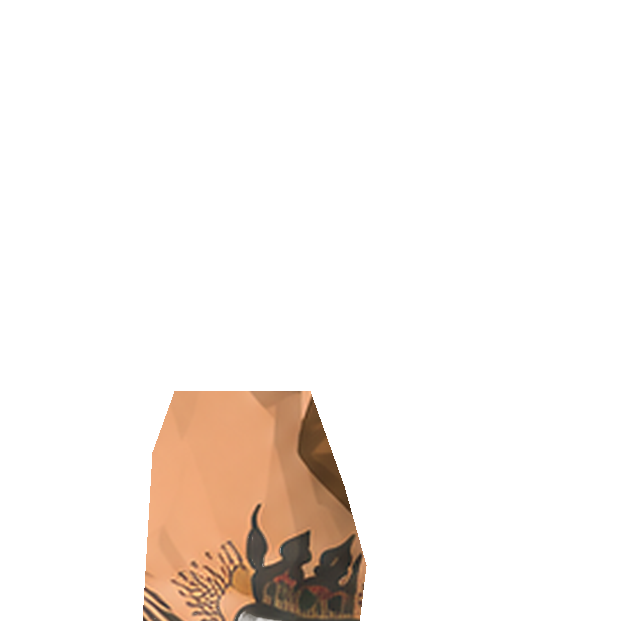
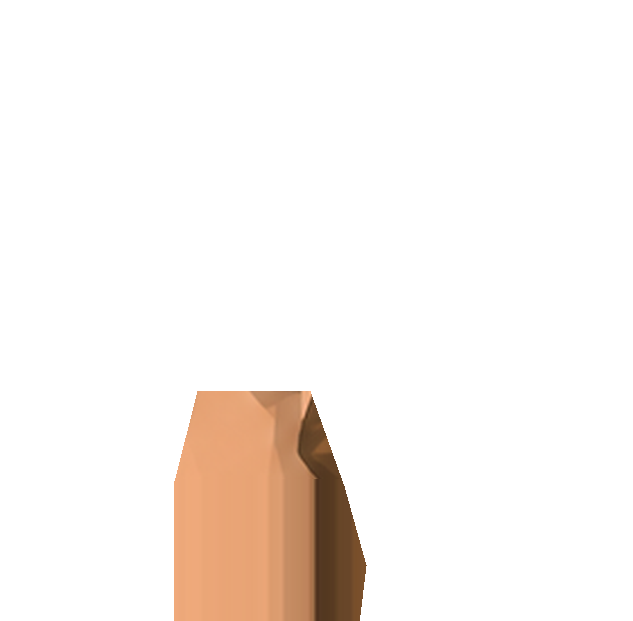
From v131: neck texture cut to its top 45 percent, heads lowered to meet the shoulders
Claude-Session: https://claude.ai/code/session_01BMyqTur5CGsYQhULeeiyXv

Changed region(s): [[0.2101, 0.6119, 0.6003, 1.0]]

diff --git a/cage/src/Cutout.js b/cage/src/Cutout.js
@@ -15,10 +15,10 @@ const REFS={ref:[['ref1','#e9b28b'],['ref2','#7a5236'],['ref3','#d9a07a'],['ref4
 CO.pickRef=(lk,kind,idx)=>{const L=REFS[kind];if(!L)return;const c=L[idx!=null?idx%L.length:Math.floor(Math.random()*L.length)];lk.cutout=c[0];lk.skin=c[1];lk.headK=.126;lk.headDown=.014};
 for(const k in REFS)REFS[k].forEach(c=>{try{load(c[0])}catch(e){}});
 CO.variants=n=>{const c=CURATED[n];return c&&c.variants||null};CO.getVar=n=>{try{const v=+localStorage.getItem('cl_skin_'+n)||0;const c=CURATED[n];return c&&c.variants&&v<c.variants.length?v:0}catch(e){return 0}};CO.setVar=(n,v)=>{try{localStorage.setItem('cl_skin_'+n,String(v))}catch(e){}};
-const CURATED={'Jon Jones':{cutout:'jones',skin:'#6b4a34',shorts:'#232326',glove:'#17171a',headK:.132,headDown:.0146},'Anderson Silva':{cutout:'silva',skin:'#8d5c34',shorts:'#1b1b1e',glove:'#17171a',headK:.132,headDown:.014},
-  'Alex Pereira':{cutout:'pereira',skin:'#c68d5a',shorts:'#1b1b1e',glove:'#17171a',headK:.132,headDown:.0146,tat:'',variants:[['pereira','머리 있는 버전'],['pereira2','삭발 버전']]},
-  'Fedor Emelianenko':{cutout:'fedor',skin:'#e1a174',shorts:'#1b1b1e',glove:'#17171a',headK:.132,headDown:.0146,tat:''},'Mirko Cro Cop':{cutout:'cropcop',skin:'#e8a77a',shorts:'#1b1b1e',glove:'#17171a',headK:.132,headDown:.0146,tat:''},'Israel Adesanya':{cutout:'adesanya',skin:'#80502c',shorts:'#1b1b1e',glove:'#17171a',headK:.132,headDown:.014,tat:''},
-  'Conor McGregor':{cutout:'conor1',skin:'#e9a97c',shorts:'#1b1b1e',glove:'#17171a',headK:.132,headDown:.014,tat:'',variants:[['conor1','짧은 머리'],['conor2','꽁지머리']]},'Cain Velasquez':{cutout:'cain',skin:'#dc9a6b',shorts:'#1b1b1e',glove:'#17171a',headK:.132,headDown:.014,tat:''},'Jose Aldo':{cutout:'aldo',skin:'#c98c57',shorts:'#1b1b1e',glove:'#17171a',headK:.132,headDown:.014,tat:''},'Junior dos Santos':{cutout:'jds',skin:'#d9966a',shorts:'#1b1b1e',glove:'#17171a',headK:.132,headDown:.014,tat:''}};
+const CURATED={'Jon Jones':{cutout:'jones',skin:'#6b4a34',shorts:'#232326',glove:'#17171a',headK:.15,headDown:.05},'Anderson Silva':{cutout:'silva',skin:'#8d5c34',shorts:'#1b1b1e',glove:'#17171a',headK:.15,headDown:.05},
+  'Alex Pereira':{cutout:'pereira',skin:'#c68d5a',shorts:'#1b1b1e',glove:'#17171a',headK:.15,headDown:.05,tat:'',variants:[['pereira','머리 있는 버전'],['pereira2','삭발 버전']]},
+  'Fedor Emelianenko':{cutout:'fedor',skin:'#e1a174',shorts:'#1b1b1e',glove:'#17171a',headK:.15,headDown:.05,tat:''},'Mirko Cro Cop':{cutout:'cropcop',skin:'#e8a77a',shorts:'#1b1b1e',glove:'#17171a',headK:.15,headDown:.05,tat:''},'Israel Adesanya':{cutout:'adesanya',skin:'#80502c',shorts:'#1b1b1e',glove:'#17171a',headK:.15,headDown:.05,tat:''},
+  'Conor McGregor':{cutout:'conor1',skin:'#e9a97c',shorts:'#1b1b1e',glove:'#17171a',headK:.15,headDown:.05,tat:'',variants:[['conor1','짧은 머리'],['conor2','꽁지머리']]},'Cain Velasquez':{cutout:'cain',skin:'#dc9a6b',shorts:'#1b1b1e',glove:'#17171a',headK:.15,headDown:.05,tat:''},'Jose Aldo':{cutout:'aldo',skin:'#c98c57',shorts:'#1b1b1e',glove:'#17171a',headK:.15,headDown:.05,tat:''},'Junior dos Santos':{cutout:'jds',skin:'#d9966a',shorts:'#1b1b1e',glove:'#17171a',headK:.15,headDown:.05,tat:''}};
 if(typeof lookFor==='function'){const lf=lookFor;window.lookFor=function(f){const L=lf.apply(this,arguments);const C=CURATED[f&&f.n];if(C){Object.assign(L,C);if(C.variants){const v=CO.getVar(f.n);L.cutout=C.variants[v][0];if(v===1&&f.n==='Conor McGregor')L.headK=.138;if(v===1&&f.n==='Alex Pereira'){L.skin='#c88c58';L.headK=.132}}}return L}}
 function load(name){let S=CO.sets[name];if(S)return S;S=CO.sets[name]={ready:false};
   fetch('assets/cutout/'+name+'/parts.json').then(r=>r.json()).then(m=>{S.meta=m;const im=new Image();im.onload=()=>{S.img=im;S.ready=true};im.src='assets/cutout/'+name+'/'+m.image}).catch(()=>{S.failed=true});
@@ -27,18 +27,18 @@ function load(name){let S=CO.sets[name];if(S)return S;S=CO.sets[name]={ready:fal
     Promise.all(ps).then(()=>{/* published only when head AND neck are decoded, so the face never appears piece by piece */const h2={img:im,headH:m.headH,m,meta:{parts:{head2:{x:0,y:0,w:m.w,h:m.h,p0:m.p0,p1:m.p1}}}};if(n)h2.neck=n;S.h2=h2;try{if(window.FACEFX){FACEFX.skinMask(im);FACEFX.layer(im.width,im.height)}}catch(e){}/* warm the caches */S.pending=0;CO.warm=(CO.warm||0)+1})}).catch(()=>{S.pending=0});return S}
 CO.body=false;
 /* the neck as a bending strip: horizontal slices from the skull down to the shoulders, each turned by an angle between the head's and the trunk's, so the back of the neck folds when the head tips forward or back */
-function neck(ctx,S2,hd,nk,B,d,ku,H,skin){const m=S2.m,P=S2.meta.parts.head2,p0=P.p0,qb=m.neckPivot,y0=m.neckTop,y1=m.neckBot,W=m.w;const J=B.J,mm=d;
+function neck(ctx,S2,hd,nk,B,d,ku,H,skin){const m=S2.m,P=S2.meta.parts.head2,p0=P.p0,y0=m.neckTop,y1=Math.round(m.neckTop+(m.neckBot-m.neckTop)*.45),W=m.w;/* only the top 45 % of the neck picture is used */const rr=m.neckRows&&m.neckRows[y1-2],qb=rr?[(rr[0]+rr[1])/2,y1]:[m.neckPivot[0],y1];const J=B.J,mm=d;
   const nrm=(x,y)=>{const l=Math.hypot(x,y)||1;return[x/l,y/l]};const uH=nrm(hd.x-nk.x,hd.y-nk.y),uT=nrm(nk.x-J.sh.x,nk.y-J.sh.y);const aH=Math.atan2(uH[1],uH[0])-Math.PI/2,aT=Math.atan2(uT[1],uT[0])-Math.PI/2;let da=aT-aH;while(da>Math.PI)da-=2*Math.PI;while(da<-Math.PI)da+=2*Math.PI;
   const wh=(qx,qy)=>{const x=mm*(qx-p0[0])*ku,y=-(qy-p0[1])*ku,c=Math.cos(aH),s=Math.sin(aH);return{x:hd.x+c*x-s*y,y:hd.y+s*x+c*y}};
   const Wb=wh(qb[0],qb[1]);Wb.x+=d*.022*H;Wb.y-=.004*H;/* the base of the neck sits further toward the chest */const wt=(qx,qy)=>{const x=mm*(qx-qb[0])*ku,y=-(qy-qb[1])*ku,c=Math.cos(aT),s=Math.sin(aT);return{x:Wb.x+c*x-s*y,y:Wb.y+s*x+c*y}};
   const N=24,step=(y1-y0)/N,rows=m.neckRows;
   /* opaque backing: a solid skin column under the slices so no seam ever shows the background through the neck */
   const L=[],R=[];for(let i=0;i<=N;i++){const y=Math.min(y1-1,y0+i*step),t=i/N,sm=t*t*(3-2*t),r=rows&&rows[Math.round(y)];if(!r)continue;const cx=qb[0];
-    for(const[side,x]of[[L,r[0]-1],[R,r[1]-1]]){const A=wh(x,y),Bt=wt(x,y);side.push({x:A.x+(Bt.x-A.x)*sm,y:A.y+(Bt.y-A.y)*sm})}}
+    for(const[side,x]of[[L,r[0]+4],[R,r[1]-4]]){const A=wh(x,y),Bt=wt(x,y);side.push({x:A.x+(Bt.x-A.x)*sm,y:A.y+(Bt.y-A.y)*sm})}}
   if(L.length>2){ctx.fillStyle=skin?shade(skin,-.02):'#6b4a34';ctx.beginPath();L.forEach((q,i)=>i?ctx.lineTo(q.x,q.y):ctx.moveTo(q.x,q.y));R.slice().reverse().forEach(q=>ctx.lineTo(q.x,q.y));ctx.closePath();ctx.fill()}
   for(let i=0;i<N;i++){const ya=y0+i*step,yb=ya+step,yc=(ya+yb)/2,t=(i+.5)/N,sm=t*t*(3-2*t),xc=qb[0];const A=wh(xc,yc),Bt=wt(xc,yc);const px=A.x+(Bt.x-A.x)*sm,py=A.y+(Bt.y-A.y)*sm,al=aH+da*sm;
     const ex=1.5;ctx.save();ctx.translate(px,py);ctx.rotate(al);ctx.scale(mm*ku,-ku);ctx.drawImage(S2.neck,0,ya-ex,W,step+2*ex,-xc,(ya-ex)-yc,W,step+2*ex);ctx.restore()}}
-CO.head=function(ctx,hd,nk,H,B,d){const lk=B.look;if(!CO.on||!lk||!lk.cutout)return false;const S=load(lk.cutout);if(S.h2){/* anchored on the head centre, hanging down along the neck line */ctx.imageSmoothingEnabled=true;ctx.imageSmoothingQuality='high';const ku=H*(lk.headK||.145)/S.h2.headH;const Lh=Math.hypot(hd.x-nk.x,hd.y-nk.y)||1,dn=H*(lk.headDown!=null?lk.headDown:.007);const hd2={x:hd.x-(hd.x-nk.x)/Lh*dn,y:hd.y-(hd.y-nk.y)/Lh*dn};/* head a little lower */if(S.h2.neck)neck(ctx,S.h2,hd2,nk,B,d,ku,H,lk.skin);if(S.h2.m.nofx){/* referee / coach: a skin neck joins the rigid head to the shoulders */const a={x:hd2.x+(nk.x-hd2.x)*.35,y:hd2.y+(nk.y-hd2.y)*.35},b={x:nk.x+(nk.x-hd2.x)*.12,y:nk.y+(nk.y-hd2.y)*.12};ctx.save();ctx.strokeStyle=lk.skin;ctx.lineWidth=.062*H;ctx.lineCap='butt';ctx.beginPath();ctx.moveTo(a.x,a.y);ctx.lineTo(b.x,b.y);ctx.stroke();ctx.restore()}put(ctx,S.h2,'head2',hd2,nk,d,ku,1,1,true,c=>{if(!window.FACEFX)return;{const q=S.h2.m.fx;if(S.h2.m.nofx||(q&&q.blinkOnly)){if(q&&q.blinkOnly)FACEFX.lid(c,q.G,FACEFX.blink(B),q.lid);return}}const fx=S.h2.m.fx,G=fx?fx.G:{eye:[395,222],brow:[400,190],brow2:[352,205],nose:[470,268],cheek:[372,292],fore:[360,110],lip:[432,358],u:44,down:1},mo=fx?fx.mouth:[452,352,40,18];FACEFX.mouth(c,[mo[0],mo[1]],mo[2],mo[3],1,B);FACEFX.lid(c,G,FACEFX.blink(B),fx?fx.lid:'#745239');/* bruises and blood: drawn on a layer cut to the face's skin, in the sprite's own (head-turning) space */if(FACEFX.hasWounds(B)){const mk=FACEFX.skinMask(S.h2.img);if(mk){const ly=FACEFX.layer(S.h2.img.width,S.h2.img.height),g=ly.getContext('2d');g.setTransform(1,0,0,1,0,0);g.globalCompositeOperation='source-over';g.clearRect(0,0,ly.width,ly.height);FACEFX.wounds(g,B,G,{cuts:true});g.globalCompositeOperation='destination-in';g.drawImage(mk,0,0);g.globalCompositeOperation='source-over';c.drawImage(ly,0,0)}}});return true}if(!S.ready)return false;const ku=H*1.03/(S.meta.h*.935)*1.08;ctx.imageSmoothingEnabled=true;ctx.imageSmoothingQuality='high';/* the neck: a solid column from the shoulders up under the jaw (the picture's head part carries only a stub of it) */
+CO.head=function(ctx,hd,nk,H,B,d){const lk=B.look;if(!CO.on||!lk||!lk.cutout)return false;const S=load(lk.cutout);if(S.h2){/* anchored on the head centre, hanging down along the neck line */ctx.imageSmoothingEnabled=true;ctx.imageSmoothingQuality='high';const ku=H*(lk.headK||.145)/S.h2.headH;const Lh=Math.hypot(hd.x-nk.x,hd.y-nk.y)||1,dn=H*(lk.headDown!=null?lk.headDown:.05);const hd2={x:hd.x-(hd.x-nk.x)/Lh*dn,y:hd.y-(hd.y-nk.y)/Lh*dn};/* head a little lower */if(S.h2.neck)neck(ctx,S.h2,hd2,nk,B,d,ku,H,lk.skin);if(S.h2.m.nofx){/* referee / coach: a skin neck joins the rigid head to the shoulders */const a={x:hd2.x+(nk.x-hd2.x)*.35,y:hd2.y+(nk.y-hd2.y)*.35},b={x:nk.x+(nk.x-hd2.x)*.12,y:nk.y+(nk.y-hd2.y)*.12};ctx.save();ctx.strokeStyle=lk.skin;ctx.lineWidth=.062*H;ctx.lineCap='butt';ctx.beginPath();ctx.moveTo(a.x,a.y);ctx.lineTo(b.x,b.y);ctx.stroke();ctx.restore()}put(ctx,S.h2,'head2',hd2,nk,d,ku,1,1,true,c=>{if(!window.FACEFX)return;{const q=S.h2.m.fx;if(S.h2.m.nofx||(q&&q.blinkOnly)){if(q&&q.blinkOnly)FACEFX.lid(c,q.G,FACEFX.blink(B),q.lid);return}}const fx=S.h2.m.fx,G=fx?fx.G:{eye:[395,222],brow:[400,190],brow2:[352,205],nose:[470,268],cheek:[372,292],fore:[360,110],lip:[432,358],u:44,down:1},mo=fx?fx.mouth:[452,352,40,18];FACEFX.mouth(c,[mo[0],mo[1]],mo[2],mo[3],1,B);FACEFX.lid(c,G,FACEFX.blink(B),fx?fx.lid:'#745239');/* bruises and blood: drawn on a layer cut to the face's skin, in the sprite's own (head-turning) space */if(FACEFX.hasWounds(B)){const mk=FACEFX.skinMask(S.h2.img);if(mk){const ly=FACEFX.layer(S.h2.img.width,S.h2.img.height),g=ly.getContext('2d');g.setTransform(1,0,0,1,0,0);g.globalCompositeOperation='source-over';g.clearRect(0,0,ly.width,ly.height);FACEFX.wounds(g,B,G,{cuts:true});g.globalCompositeOperation='destination-in';g.drawImage(mk,0,0);g.globalCompositeOperation='source-over';c.drawImage(ly,0,0)}}});return true}if(!S.ready)return false;const ku=H*1.03/(S.meta.h*.935)*1.08;ctx.imageSmoothingEnabled=true;ctx.imageSmoothingQuality='high';/* the neck: a solid column from the shoulders up under the jaw (the picture's head part carries only a stub of it) */
   {const L=Math.hypot(hd.x-nk.x,hd.y-nk.y)||1e-5,ux=(hd.x-nk.x)/L,uy=(hd.y-nk.y)/L;let nx=-uy,ny=ux;if(nx*d<0){nx=-nx;ny=-ny}const skin=lk.skin||'#7d5033';
    const Q=(aa,bb)=>({x:nk.x+ux*aa+nx*bb,y:nk.y+uy*aa+ny*bb});
    const poly=[Q(-.05*H,.05*H),Q(.04*H,.042*H),Q(L*.9,.036*H),Q(L*1.0,-.04*H),Q(.03*H,-.075*H),Q(-.05*H,-.1*H)];

diff --git a/cage/src/FlatStyle.js b/cage/src/FlatStyle.js
@@ -46,13 +46,11 @@ function frame(a,b,d){const dx=b.x-a.x,dy=b.y-a.y,L=Math.hypot(dx,dy)||1e-5;cons
 function joint(ctx,c,r,col){ctx.fillStyle=col;ctx.beginPath();ctx.arc(c.x,c.y,r,0,7);ctx.fill();const g=ctx.createRadialGradient(c.x-r*.25,c.y+r*.25,r*.1,c.x,c.y,r);g.addColorStop(0,'rgba(255,240,220,.05)');g.addColorStop(.6,'rgba(0,0,0,0)');g.addColorStop(1,'rgba(40,18,8,.10)');ctx.fillStyle=g;ctx.beginPath();ctx.arc(c.x,c.y,r,0,7);ctx.fill()}
 /* a very thin darker rim around a body part */
 function thinLine(ctx,pts,col){ctx.save();ctx.globalAlpha=.5;ctx.strokeStyle=shade(col,-.4);ctx.lineWidth=.0034;ctx.lineJoin='round';ctx.beginPath();rpath(ctx,pts,ROUND*2.2);ctx.stroke();ctx.restore()}
-/* shading for a round joint cap: lit on the front side, dark on the back side, so it continues the limb's own shading */
-function capShade(ctx,c,r,n,base){ctx.save();ctx.beginPath();ctx.arc(c.x,c.y,r,0,7);ctx.clip();const g=ctx.createLinearGradient(c.x+n.x*r,c.y+n.y*r,c.x-n.x*r,c.y-n.y*r);const hi=rgbOf(shade(base,.14)),lo=rgbOf(shade(base,-.3));g.addColorStop(0,`rgba(${hi[0]},${hi[1]},${hi[2]},.3)`);g.addColorStop(.45,'rgba(0,0,0,0)');g.addColorStop(.6,`rgba(${lo[0]},${lo[1]},${lo[2]},.0)`);g.addColorStop(1,`rgba(${lo[0]},${lo[1]},${lo[2]},.42)`);ctx.fillStyle=g;ctx.fillRect(c.x-r,c.y-r,r*2,r*2);ctx.restore()}
 function limb(ctx,a,b,d,rows,col,shCol,extra){const F=frame(a,b,d);const P=(t,w)=>({x:a.x+F.ux*F.L*t+F.nx*w,y:a.y+F.uy*F.L*t+F.ny*w});
   const front=rows.map(r=>P(r[0],r[1])),back=rows.map(r=>P(r[0],-r[2]));poly(ctx,front.concat(back.slice().reverse()),col,ROUND*2.2);/* outline of the limb: extra round */
   if((FS.outline||(extra&&extra.armLine))&&!(extra&&extra.noLine))thinLine(ctx,front.concat(back.slice().reverse()),col);
   /* rounded joint ends: the limb meets its neighbour with a smooth round cap instead of a hard corner */
-  if(!(extra&&extra.noCaps)){const r0=rows[0],r1=rows[rows.length-1];circ(ctx,P(r0[0],(r0[1]-r0[2])/2),(r0[1]+r0[2])/2,col);circ(ctx,P(r1[0],(r1[1]-r1[2])/2),(r1[1]+r1[2])/2,col);}
+  if(!(extra&&extra.noCaps)){const r0=rows[0],r1=rows[rows.length-1];circ(ctx,P(r0[0],(r0[1]-r0[2])/2),(r0[1]+r0[2])/2,col);circ(ctx,P(r1[0],(r1[1]-r1[2])/2),(r1[1]+r1[2])/2,col)}
   if(shCol){const mid=rows.map(r=>P(r[0],-r[2]*(extra&&extra.shadowFrom!=null?extra.shadowFrom:.12)));poly(ctx,mid.concat(back.slice().reverse()),shCol)}
   return{F,P,out:front.concat(back.slice().reverse()),front,back}}
 
@@ -95,18 +93,16 @@ Body.prototype.draw=function(ctx,o){o=o||{};const lk=this.look;if(window.CUTOUT&
   const ow=this._owner,hpo=ow&&ow.hp,sevL=hpo?clamp((100-hpo.legs)/100*1.25-.1,0,1):0,sevA=ow?clamp((ow._armD||0)/32,0,1):0,LS=H0=>{const D=LD;if(!D)return 1;const sd=H0==='lH'?'l':'r',tot=D.l+D.r;return tot<1?1:clamp(.5+.9*D[sd]/tot,.45,1.25)},flA=ow&&ow._armFlash>0?ow._armFlash/.32:0,LD=ow&&ow._legD;
   const self=this;
   /* ---- arm: deltoid, biceps/triceps, elbow, forearm, wrist, glove ---- */
-  const arm=(S,isFar)=>{const e=J[S.E],w=J[S.W],a=lerp(J[S.S],J.mid,R?.12:.22);/* the drawn shoulder sits well below the neck, so it never covers the face */const C=isFar?{b:sk.far,s:sk.farSh}:{b:sk.base,s:sk.sh};
-    joint(ctx,e,.031*M,C.b);capShade(ctx,e,.031*M,(()=>{const F=frame(e,w,d);return{x:F.nx,y:F.ny}})(),C.b);/* the elbow sits behind both segments; its own shading continues the arm's */
+  const arm=(S,isFar)=>{const e=J[S.E],w=J[S.W],a=lerp(J[S.S],J.mid,R?.2:.32);/* the drawn shoulder sits well below the neck, so it never covers the face */const C=isFar?{b:sk.far,s:sk.farSh}:{b:sk.base,s:sk.sh};
+    joint(ctx,e,.031*M,C.b);/* the elbow sits behind both segments so the shading runs through it */
     /* upper arm: deltoid cap → biceps (front) / triceps (back) → elbow */
     const Pa=limb(ctx,a,e,d,R?[[.5,.05*M,.05*M],[.78,.04*M,.04*M],[1,.031*M,.033*M]]:[[-.04,.05*M*SHB,.055*M*SHB],[.12,.062*M*SHB,.064*M*SHB],[.3,.052*M,.058*M],[.5,.05*M,.05*M],[.78,.04*M,.04*M],[1,.031*M,.033*M]],C.b,C.s,{noCaps:isFar||R,armLine:!isFar});/* a sleeve covers the shoulder of the referee / coach: no skin up there *//* the far shoulder gets no round cap: it would poke out above the back */
-    if(!R&&FS.detail){const armD=(hi,lo)=>{const Pu=Pa.P;
+    if(!R&&FS.detail)detailIn(ctx,Pa.out,Pa.front,Pa.back,C.b,.012*M,(hi,lo)=>{const Pu=Pa.P;
       {const[r_,g_,b_]=rgbOf(lo),gr=ctx.createLinearGradient(a.x,a.y+.065*M,a.x,a.y-.012*M);gr.addColorStop(0,`rgba(${r_},${g_},${b_},.62)`);gr.addColorStop(1,`rgba(${r_},${g_},${b_},0)`);ctx.fillStyle=gr;ctx.beginPath();ctx.arc(a.x,a.y,.085*M,0,7);ctx.fill()}/* only the top of the shoulder is shaded */
       strip(ctx,Pu,-.02,.64,.0,.05*M,.0,.058*M,hi,.5);/* biceps: lit belly, running up into the shoulder */
       strip(ctx,Pu,-.02,.76,-.016*M,-.07*M,-.02*M,-.07*M,lo,.5);/* triceps: shadow side */
       strip(ctx,Pu,.6,1.02,-.07*M,.07*M,-.07*M,.07*M,lo,.18);/* the arm darkens toward the elbow */
-      bruises(ctx,Pu,[[.45,.02,.04],[.7,-.02,.035]],sevA*.8,31+(isFar?7:0),M,Math.atan2(Pa.F.uy,Pa.F.ux))};detailIn(ctx,Pa.out,Pa.front,Pa.back,C.b,.012*M,armD);
-      /* the round top of the shoulder is part of the arm texture: the same shading runs over the cap */
-      if(!isFar){ctx.save();const c0=Pa.P(-.04,(.05-.055)/2*M*SHB),r0=.0525*M*SHB;ctx.beginPath();ctx.arc(c0.x,c0.y,r0,0,7);ctx.clip();armD(shade(C.b,.14),shade(C.b,-.27));ctx.restore()}}
+      bruises(ctx,Pu,[[.45,.02,.04],[.7,-.02,.035]],sevA*.8,31+(isFar?7:0),M,Math.atan2(Pa.F.uy,Pa.F.ux))});
     /* deltoid plate: a lighter facet over the shoulder */
     if(R){const shc=isFar?CL.shirtS:CL.shirt,Ps=limb(ctx,a,e,d,[[-.02,.062*M,.064*M],[.25,.07*M,.072*M],[.56,.064*M,.066*M]],shc,null,{noCaps:true});if(FS.detail)detailIn(ctx,Ps.out,Ps.front,Ps.back,shc,.012*M,(hi,lo)=>{const[r_,g_,b_]=rgbOf(lo),gr=ctx.createLinearGradient(a.x,a.y+.06*M,a.x,a.y-.012*M);gr.addColorStop(0,`rgba(${r_},${g_},${b_},.6)`);gr.addColorStop(1,`rgba(${r_},${g_},${b_},0)`);ctx.fillStyle=gr;ctx.beginPath();ctx.arc(a.x,a.y,.08*M,0,7);ctx.fill();strip(ctx,Ps.P,.1,.9,-.02*M,-.07*M,-.02*M,-.066*M,lo,.5);strip(ctx,Ps.P,.1,.8,.02*M,.06*M,.02*M,.056*M,hi,.45)})}
     else{limb(ctx,a,e,d,[[.04,.034*M,.02*M],[.12,.05*M,.04*M],[.3,.034*M,.02*M]],isFar?C.b:shade(C.b,.05),null,{noCaps:true,noLine:true})}/* the deltoid facet stays inside the arm: no bump above the shoulder */
@@ -177,23 +173,25 @@ function footFlat(ctx,A,He,T,M,C,d){const ux0=T.x-He.x,uy0=T.y-He.y,Lf=Math.hypo
 
 /* ---------- torso: lats, pecs, abs, obliques ---------- */
 function torsoFlat(ctx,J,H,M,sk,d,lk,B){const sp=[J.hip,J.mid,J.sh,J.nk];const segL=[0];for(let i=1;i<4;i++)segL.push(segL[i-1]+Math.hypot(sp[i].x-sp[i-1].x,sp[i].y-sp[i-1].y));const TL=segL[3]||1;
-  const at=s=>{const L=s*TL*.962;/* the torso stops lower, under the neck line */let i=1;while(i<3&&segL[i]<L)i++;const a=sp[i-1],b=sp[i],k=(L-segL[i-1])/((segL[i]-segL[i-1])||1);const tx=b.x-a.x,ty=b.y-a.y,l=Math.hypot(tx,ty)||1;return{x:a.x+tx*k,y:a.y+ty*k,nx:ty/l*d,ny:-tx/l*d}};
+  const at=s=>{const L=s*TL*.92;/* the torso stops below the chin: the neck is visible between chin and shoulders */let i=1;while(i<3&&segL[i]<L)i++;const a=sp[i-1],b=sp[i],k=(L-segL[i-1])/((segL[i]-segL[i-1])||1);const tx=b.x-a.x,ty=b.y-a.y,l=Math.hypot(tx,ty)||1;return{x:a.x+tx*k,y:a.y+ty*k,nx:ty/l*d,ny:-tx/l*d}};
   const pt=(s,w)=>{const c=at(s);return{x:c.x+c.nx*w*M/.94/1,y:c.y+c.ny*w*M/.94}};
   const bel=lk.belly||lk.body==='belly'?.042:lk.body==='soft'?.017:0;const shb=lk.body==='broad'?1.14:1;/* broad: wider chest and upper back */
-  const FR=[[0,.074+bel*.3],[.16,.068+bel*.8],[.32,.066+bel],[.48,.067+bel*.7],[.6,.074],[.7,.074*shb],[.79,.066*shb],[.87,.052*shb],[.94,.038],[1,.028]];
-  const BK=[[0,.09],[.1,.086],[.24,.066+bel*.3],[.38,.061+bel*.2],[.52,.071],[.66,.08*shb],[.78,.084*shb],[.88,.08*shb],[.95,.072],[1,.066]];/* the back runs up into the nape without a step */
+  const FR=[[0,.074+bel*.3],[.16,.068+bel*.8],[.32,.066+bel],[.48,.067+bel*.7],[.6,.078],[.7,.088*shb],[.79,.088*shb],[.87,.07*shb],[.94,.046],[1,.03]];
+  const BK=[[0,.09],[.1,.086],[.24,.066+bel*.3],[.38,.061+bel*.2],[.52,.071],[.66,.085*shb],[.78,.093*shb],[.88,.09*shb],[.95,.082],[1,.074]];/* the back runs up into the nape without a step */
   const F=FR.map(([s,w])=>pt(s,w)),Bk=BK.map(([s,w])=>pt(s,-w));
-  B._tt={f:F[F.length-1],b:Bk[Bk.length-1]};/* the flat top of the torso: the neck is pinned exactly onto it */
   poly(ctx,F.concat(Bk.slice().reverse()),sk.base,ROUND*2.2);
   if(FS.outline)thinLine(ctx,F.concat(Bk.slice().reverse()),sk.base);
   const TD=sk.far&&FS.detail;
   /* lats / spine side: shadow plane on the back */
-
+  poly(ctx,BK.map(([s,w])=>pt(s,-w*.32)).concat(Bk.slice().reverse()),sk.sh);
   /* trapezius slope + clavicle line */poly(ctx,[pt(.9,-.08),pt(1,-.045),pt(1,.0),pt(.93,-.02)],sk.sh);
+  /* pec plate: lighter facet, then the hard under-pec shadow */
+  poly(ctx,[pt(.93,.06),pt(.87,.088),pt(.79,.099),pt(.7,.096),pt(.69,.03),pt(.8,.0),pt(.9,.02)],sk.lt);
+  poly(ctx,[pt(.7,.098),pt(.67,.08),pt(.66,.015),pt(.69,.0),pt(.71,.03)],sk.sh);
 
   /* abs: flat blocks along the front edge */
 
-  if(FS.detail)detailIn(ctx,F.concat(Bk.slice().reverse()),F,Bk,sk.base,.004*M,(hi,lo)=>{const dk=shade(sk.base,-.3);
+  if(FS.detail)detailIn(ctx,F.concat(Bk.slice().reverse()),F,Bk,sk.base,.012*M,(hi,lo)=>{const dk=shade(sk.base,-.3);
     if(!TD){fac(ctx,[pt(.7,-.1),pt(.3,-.1),pt(.3,-.04),pt(.7,-.05)],lo,.3,0);fac(ctx,[pt(.5,.1),pt(.15,.1),pt(.15,.05),pt(.5,.05)],hi,.25,0);fac(ctx,[pt(.66,.0),pt(.62,.1),pt(.58,.1),pt(.62,.0)],dk,.2,0);return}
     {const ow=B&&B._owner,sevB=ow&&ow.hp?clamp((100-ow.hp.body)/100*1.25-.1,0,1):0;bruises(ctx,(s,w)=>pt(s,w/M),[[.5,.035,.06],[.38,.03,.055],[.6,.0,.05],[.28,.04,.05],[.7,.03,.045]].map(q=>[q[0],q[1],q[2]]),sevB,111,M,0)}
     fac(ctx,[pt(.5,.1),pt(.12,.1),pt(.12,.05),pt(.5,.05)],hi,.3,0);/* front: lit */

diff --git a/cage/tools/README_faces.md b/cage/tools/README_faces.md
@@ -6,7 +6,7 @@ One command does all of it:
 1. `auto_geom.py` finds head top / back / nose / chin from the silhouette (flat backdrop, facing right) with the proportions of the hand-tuned fighters.
 2. `build_head2.py` cuts the head and the neck piece (bending neck), removes loose fragments, and writes `head2.json` with the blink eye position,
    hit-mouth position, eyelid colour (sampled from the face), and the brow / cheek / nose points used by the bruises and blood.
-3. The fighter is added to `CURATED` in `src/Cutout.js` (head size 0.132 of the body height, same head height for everyone).
+3. The fighter is added to `CURATED` in `src/Cutout.js` (head size 0.15 of the body height, same head height for everyone).
 4. `node tools/face_check.js <url> <out.png> "<name>"` renders normal / blink / damaged / hit-reaction for the face.
 
 Hand-tuning, only when the check sheet shows a problem: add a `CFG` entry in `build_head2.py` (copy `aldo`) — `taper` / `ntaper` round the nape,
